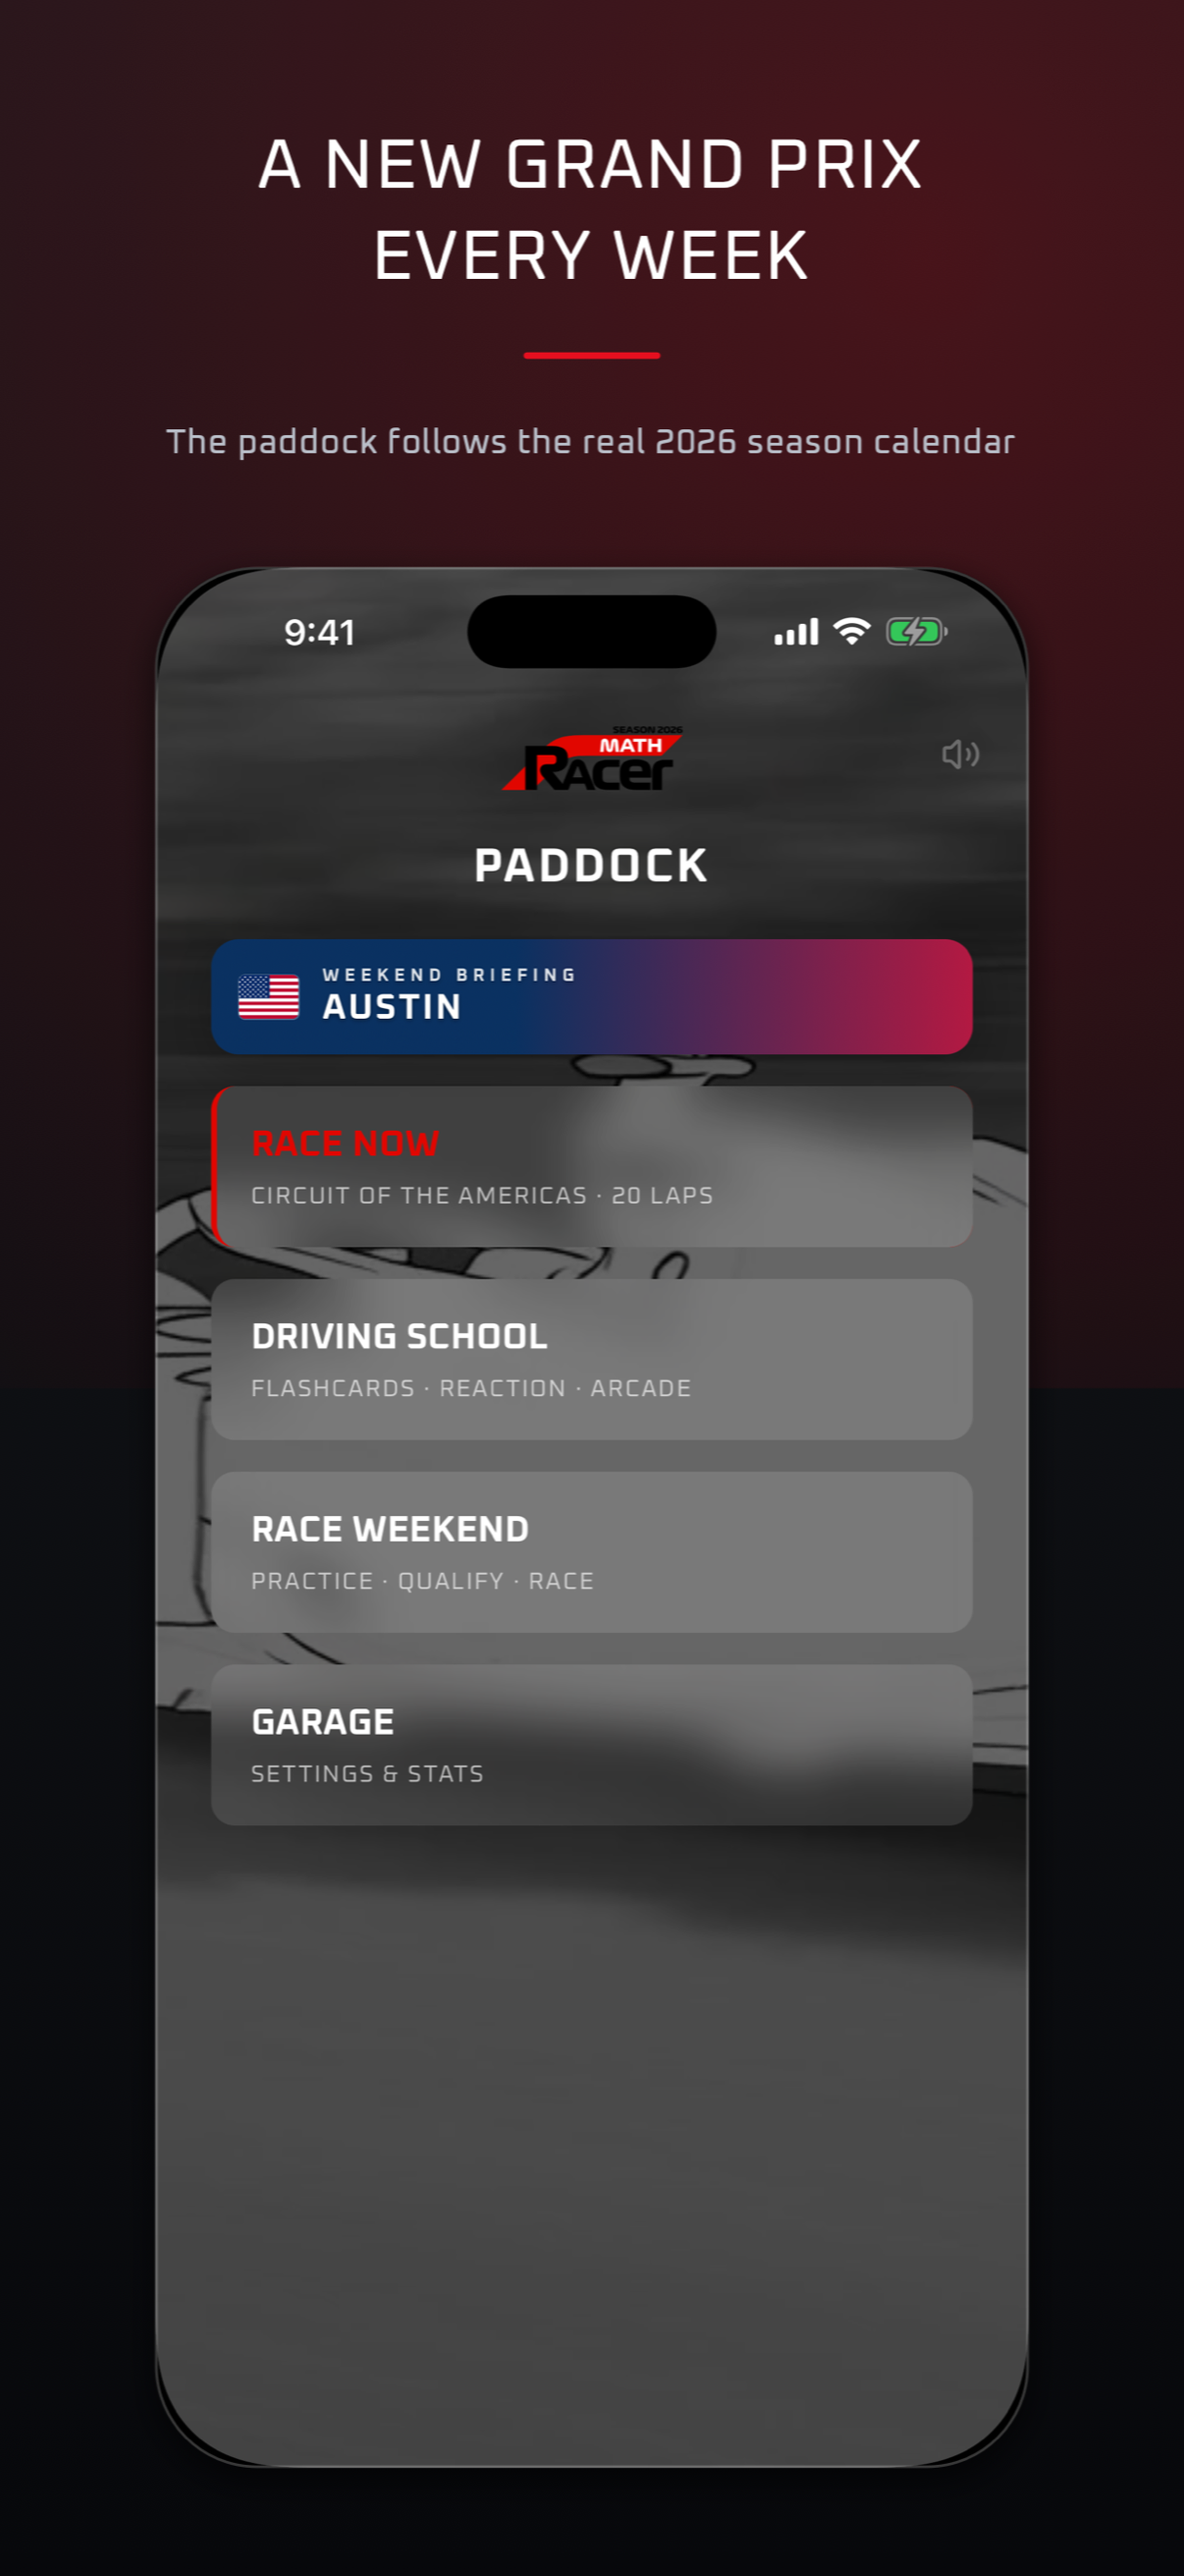
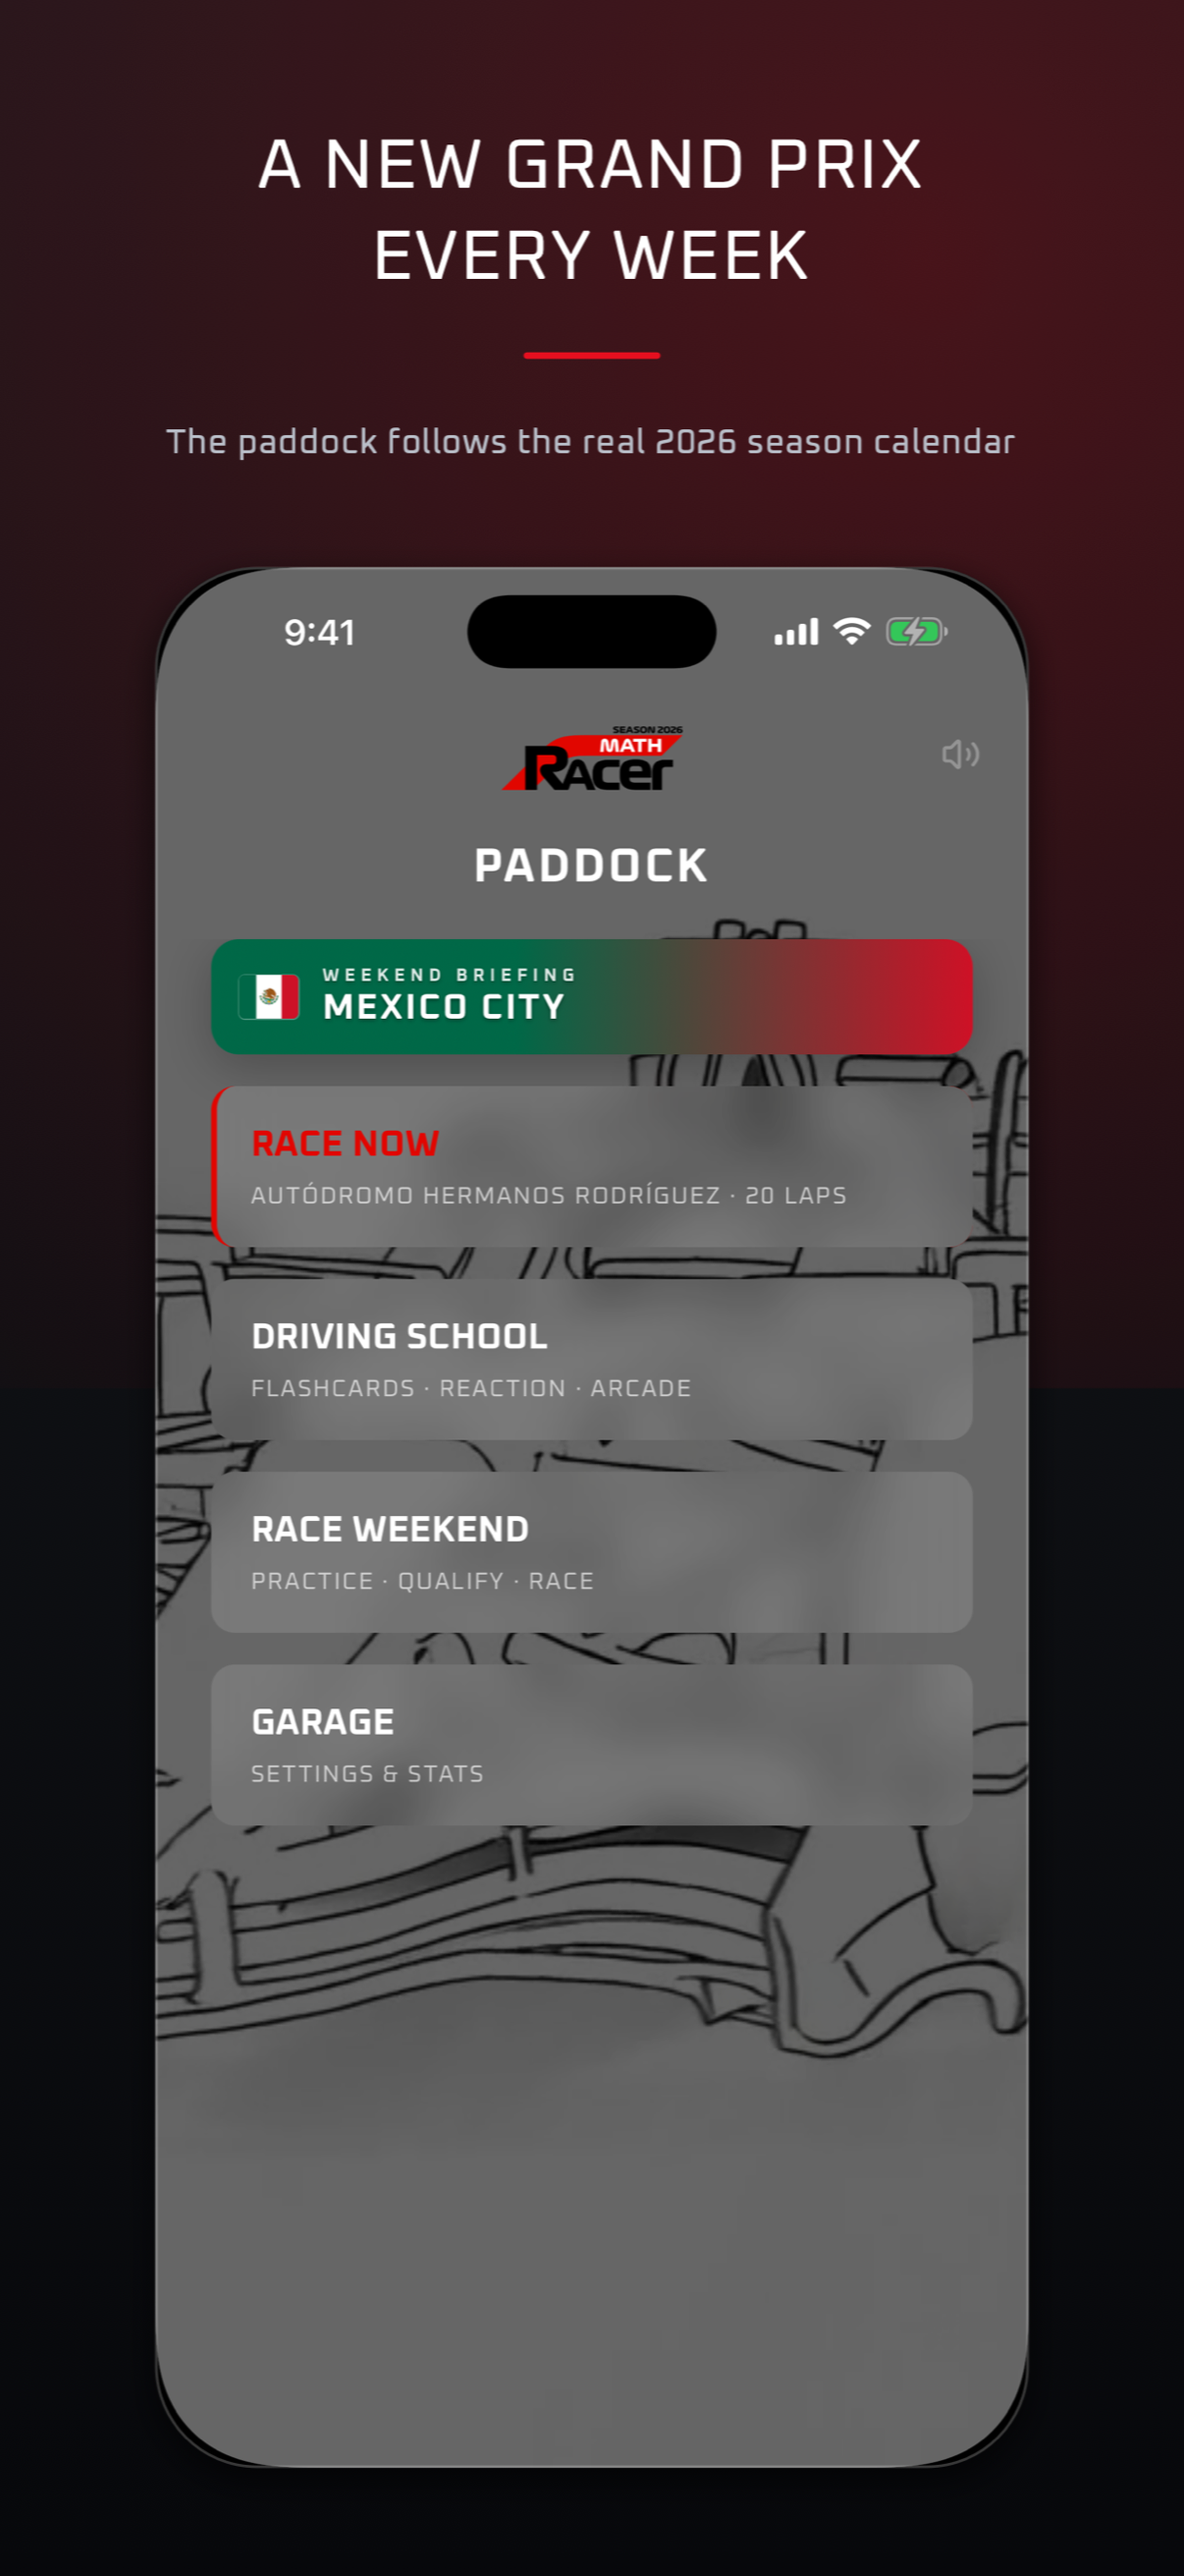
Retake the App Store cards for Mexico City
The cards that show the current Grand Prix still showed Round 18 /
Austin. Recaptured on the iOS 26.5 simulators with 1.3.19:
- iPhone 04_grand_prix, 05_paddock (6.9" and the 6.3" copies)
- iPad 04_grand_prix, 05_paddock
- iPad 01_race (header chip), from the capture-only build (practice bot
  time x12, reverted, never committed): yellow, purple, green, purple,
  purple, green, purple at Lap 8/30 with AERO lit

README: the last-captured round, the simulator tool's rotate action, and
the answer timings that gave each sector colour this time.

diff --git a/app_store/README.md b/app_store/README.md
@@ -27,7 +27,7 @@ product page.
 | `08_superlicence` | Superlicence granted. | Finish Driving School and it joins your trophy cabinet |
 
 `04`, `05` and the iPad `01` (its header chip) show the current Grand Prix. They
-were last captured on Round 18 / Austin. `02` shows Race Day's lap count
+were last captured on Round 19 / Mexico City. `02` shows Race Day's lap count
 (`/56`, from Round 16 / Malaysia) but no circuit name. `06` shows the Reaction Test target
 (`REACTION_LICENCE_MS`, 0.40s), so retake it if that changes.
 
@@ -62,14 +62,15 @@ Captions use Oxanium, the same font as the app.
   `reactionBestMs` = `350`, `laneRacerP1Win` = `1`, `superlicenceCelebrated` = `0`.
   Relaunch, take a burst of screenshots, and pick a frame just after the confetti
   peaks so the text is clear.
-- **iPad landscape (`01`, `02`)**: rotate the iPad from the Claude simulator panel.
+- **iPad landscape (`01`, `02`)**: rotate the iPad with the simulator `control` tool's
+  `rotate` action (`direction: left`; it worked on 2026-10-27), or from the Claude simulator panel.
   Simulator.app isn't installed here, and on iPadOS 26 an app's own orientation
   lock turns into a floating window instead of a rotation. Panel taps stay in
   portrait coordinates after rotating: `x = landscapeY`, `y = 1376 − landscapeX`
   (points), for the rotation used on 2026-09-21 and 2026-09-28. On 2026-10-20
   portrait taps did nothing and upright landscape points (1376 × 1032, read off
   the `simctl io screenshot` at half its pixels) worked instead, so test one tap
-  first. `simctl io screenshot` still returns the frame upright at 2752 × 2064. Grand Prix practice
+  first (upright landscape points worked again on 2026-10-27 after `rotate`). `simctl io screenshot` still returns the frame upright at 2752 × 2064. Grand Prix practice
   has no pause button, so leave the session by tapping the header logo: it goes
   to the title screen without finishing.
 - **Paddock and setup cards (`04`, `05`)**: the backgrounds are looping videos.
@@ -95,8 +96,9 @@ Captions use Oxanium, the same font as the app.
   through the simulator panel takes longer than that. So, temporarily, multiply
   `question.botTime` in Game.tsx's practice colouring by 12, build, install, then
   revert with `git checkout --`, rebuild and re-sync. Answering at a steady pace then
-  gives a mix of green and purple; wait about 45 s on one question for a yellow. The
-  2026-10-20 iPad card stops at Lap 8/30 (green, purple, purple, yellow, green, purple,
-  green); the iPhone `01` card, retaken the same way, at Lap 7/30 with its next answer typed.
+  gives a mix of green and purple; wait about 45 s on one question for a yellow. On
+  2026-10-27 answering within about 10 s gave purple, pausing about 7 s before ✓ gave
+  green, and a 26 s first answer gave yellow. The 2026-10-27 iPad card stops at Lap 8/30
+  (yellow, purple, green, purple, purple, green, purple) with AERO lit; the iPhone `01` card, retaken the same way, at Lap 7/30 with its next answer typed.
 - **App opens in a window** on the iPad (window controls top-left, wallpaper
   around it): tap the controls, then the green button, and it stays full screen.
